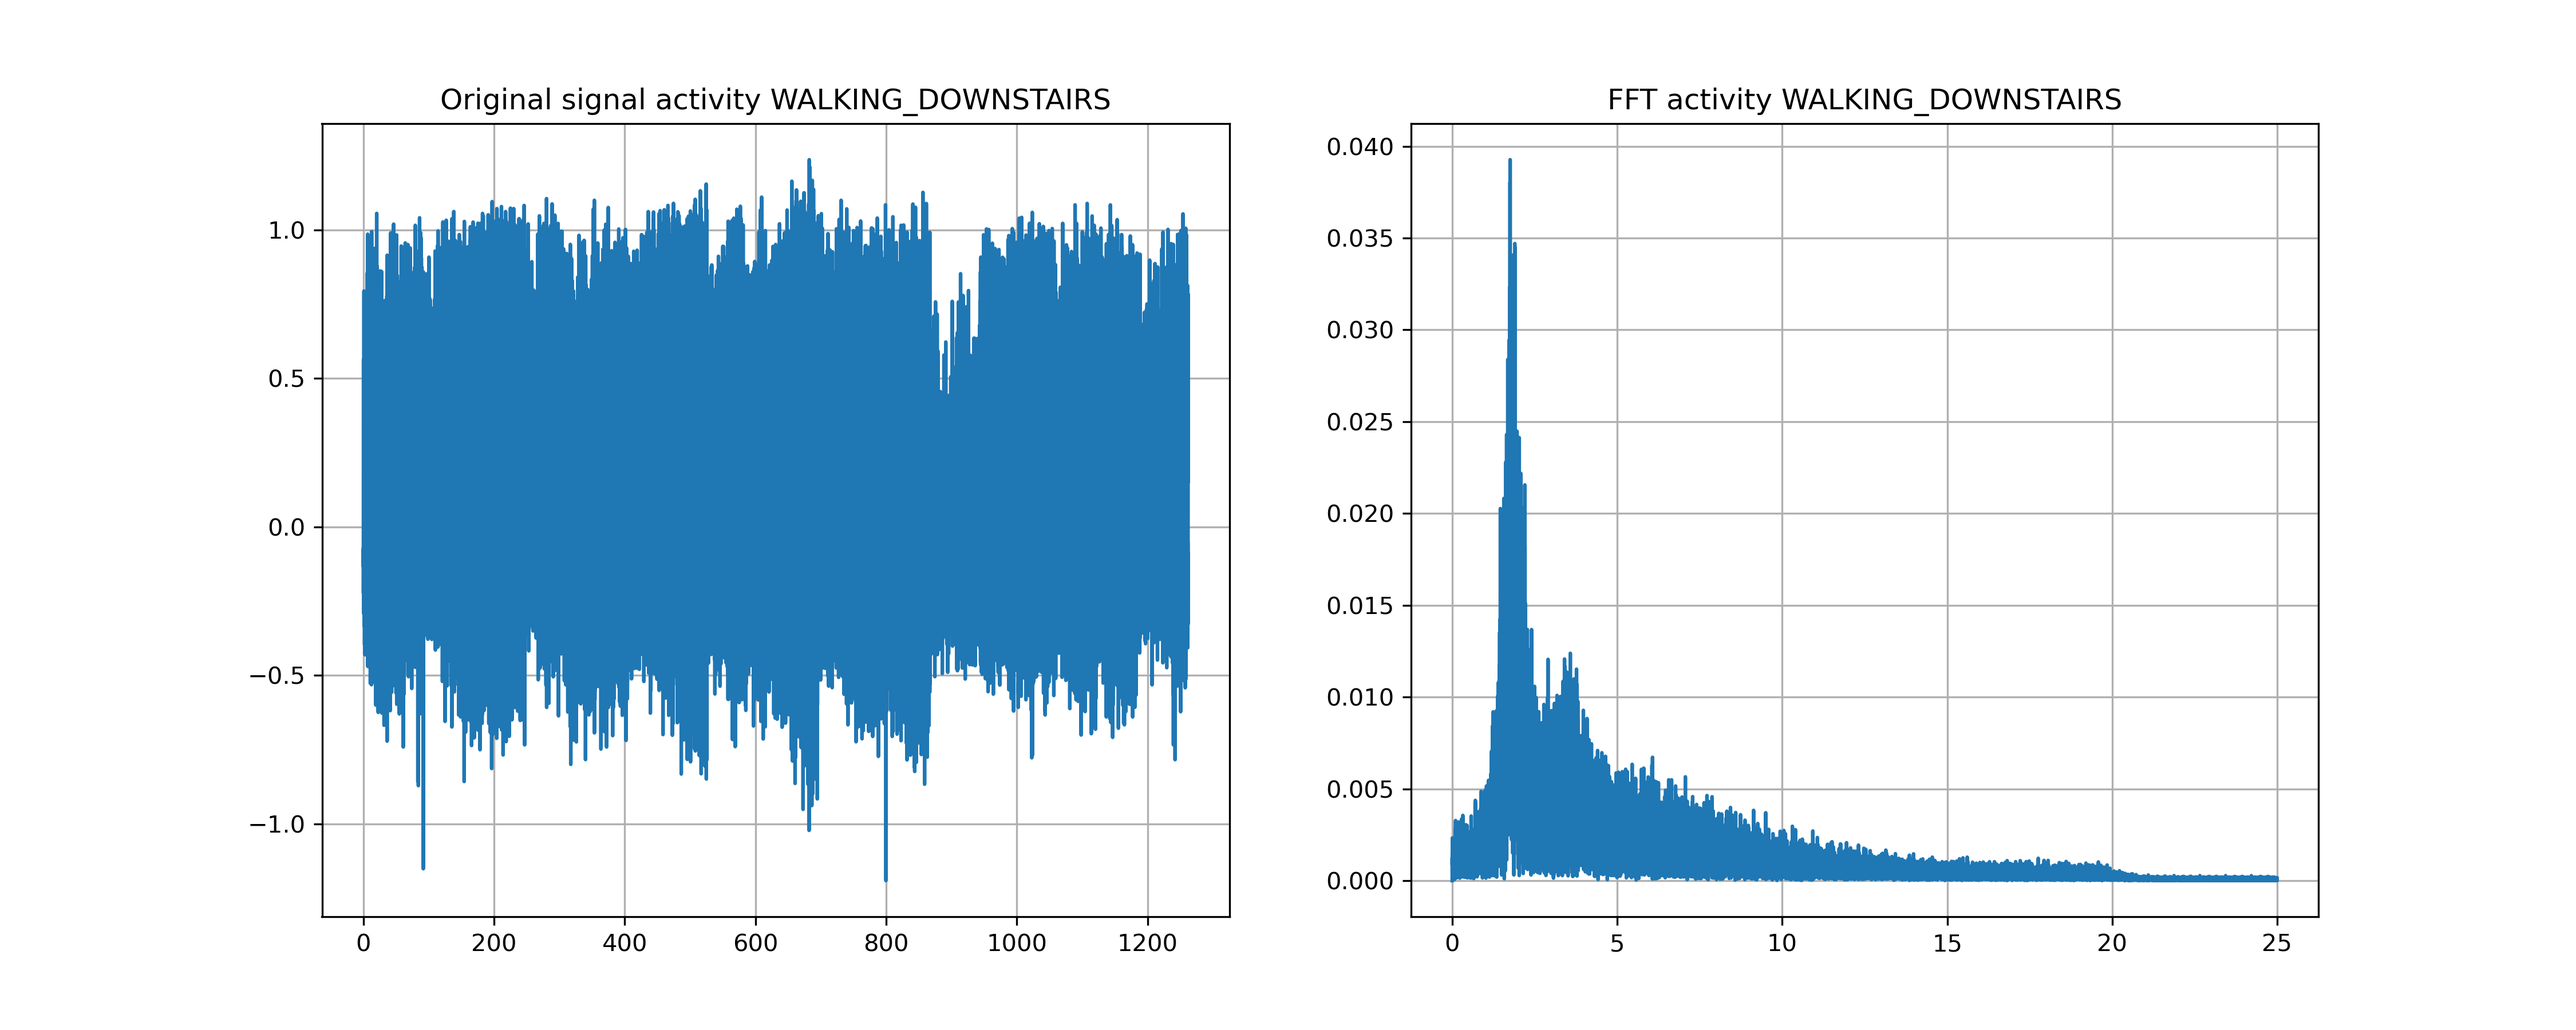
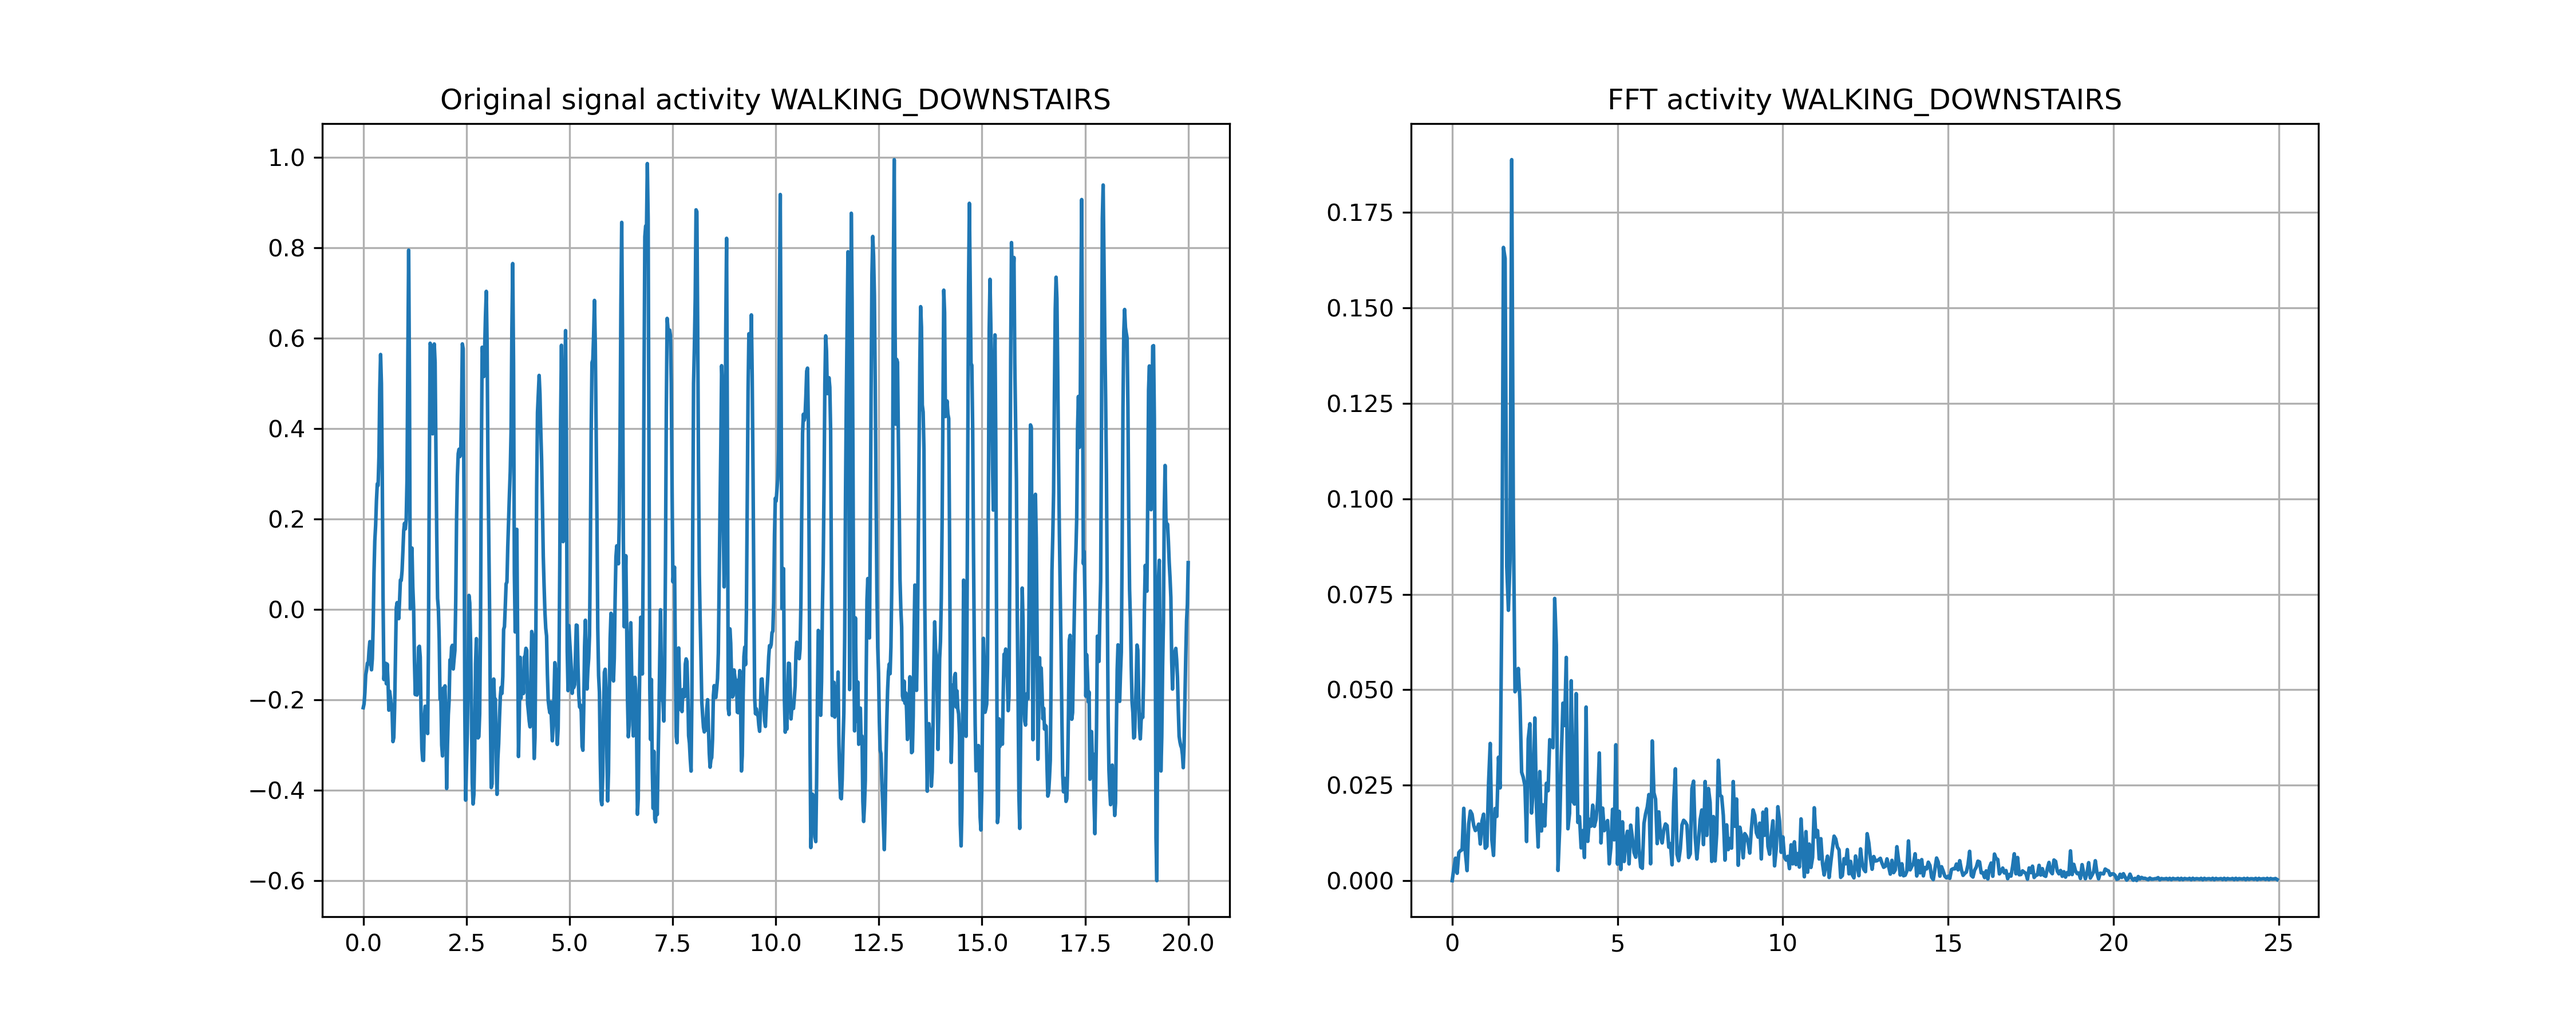
changed length of signal to transform

diff --git a/TS/4_456.py b/TS/4_456.py
@@ -123,13 +123,16 @@ def calculate_fft(x, T):
 ### 4.6a: fft of all 6 activities
 fs = 50  # sample frequency
 T = 1 / fs  # sample time
+nsamples = 1000  # amount of samples to transform
 
 # Create dictionary for the activities
 raw_signal = pd.DataFrame(raw_signal, columns=["signal", "label"])
 raw_signal["label"] = raw_signal["label"].transform(lambda c: activity_labels['activity'][c - 1])
 activities_and_signals = raw_signal.groupby("label")["signal"].apply(list).to_dict()
 
+## TODO: change length of signal we want to transform?
 for activity, signal in activities_and_signals.items():
+    signal = signal[0:nsamples]
     signal = signal - np.mean(signal)
     t = np.linspace(start=0, stop=T * np.size(signal), num=np.size(signal)) # create time axis
     f, y = calculate_fft(signal, T) # fourier transform
